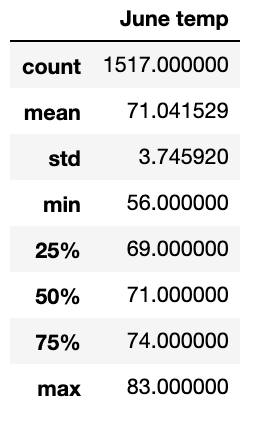
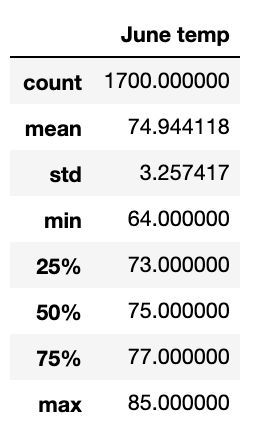
README v1

diff --git a/README.md b/README.md
@@ -1,1 +1,20 @@
 # surfs_up
+
+## Overview of the analysis: 
+The purpose of this analysis is to understand the weather data in Ohau in June and December. The weather information will be used to justify opening a surf & ice cream shop on the island.
+
+## Results: 
+Provide a bulleted list with three major points from the two analysis deliverables. Use images as support where needed.
+* Over 75% of the days in June have a temperature over 73 degrees Farenheit
+![June Temperature Statistics](https://github.com/krockway/surfs_up/blob/main/Images/June_Stats.png)
+
+* Over 50% of the days in December have a temperature over 71 degrees Farenheit - ideal for ice cream eating on the beach.
+![December Temperature Statistics](https://github.com/krockway/surfs_up/blob/main/Images/Dec_Stats.png)
+
+* The lowest temperature recorded in either month was 56 degrees, but the majority was in the high 60s to low 80s
+
+## Summary: 
+The weather in Ohau has proven to be great in both June & December (with the assumption that the weather in between is also great), therefore it seems like a logical place to open the surf & ice cream shop.
+
+I would also explore the relationship between temperature and precipitation. If the temp is warm, but it's raining, how will that impact the surf conditions? Similiarly, does this alter the desire to eat ice cream?
+Secondly, I would be interested to get data on the surf conditions at each of the stations. When comparing the surf conditions with the weather, it would help pinpoint the best spot on the island to open the shop.
